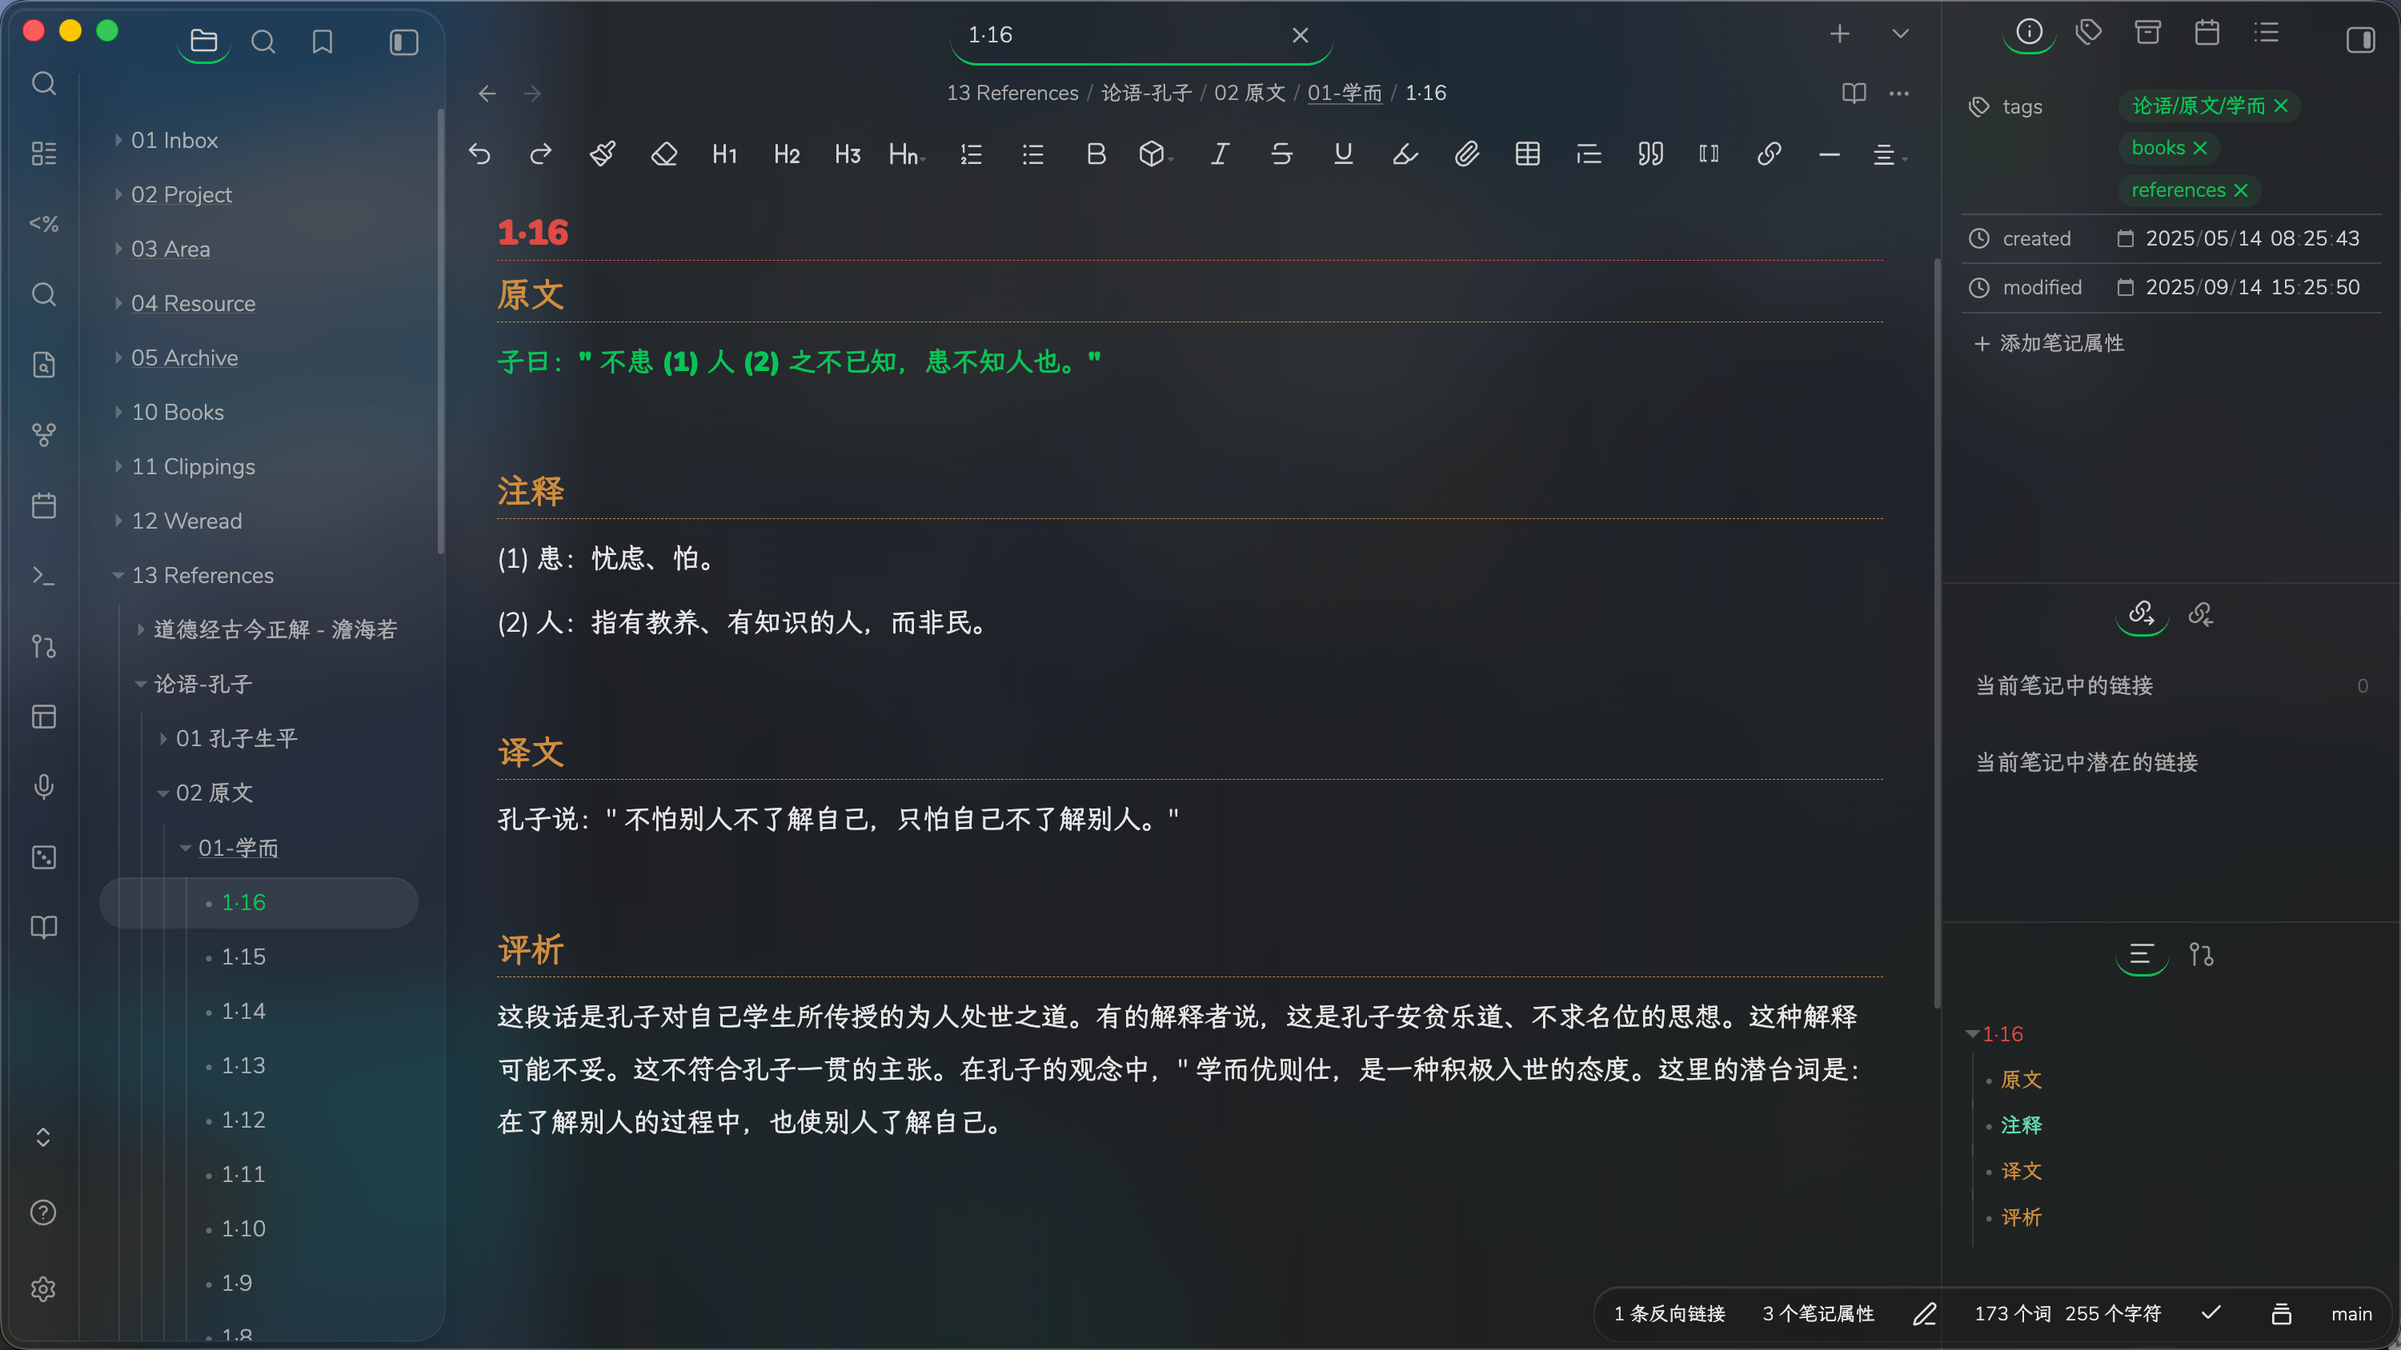
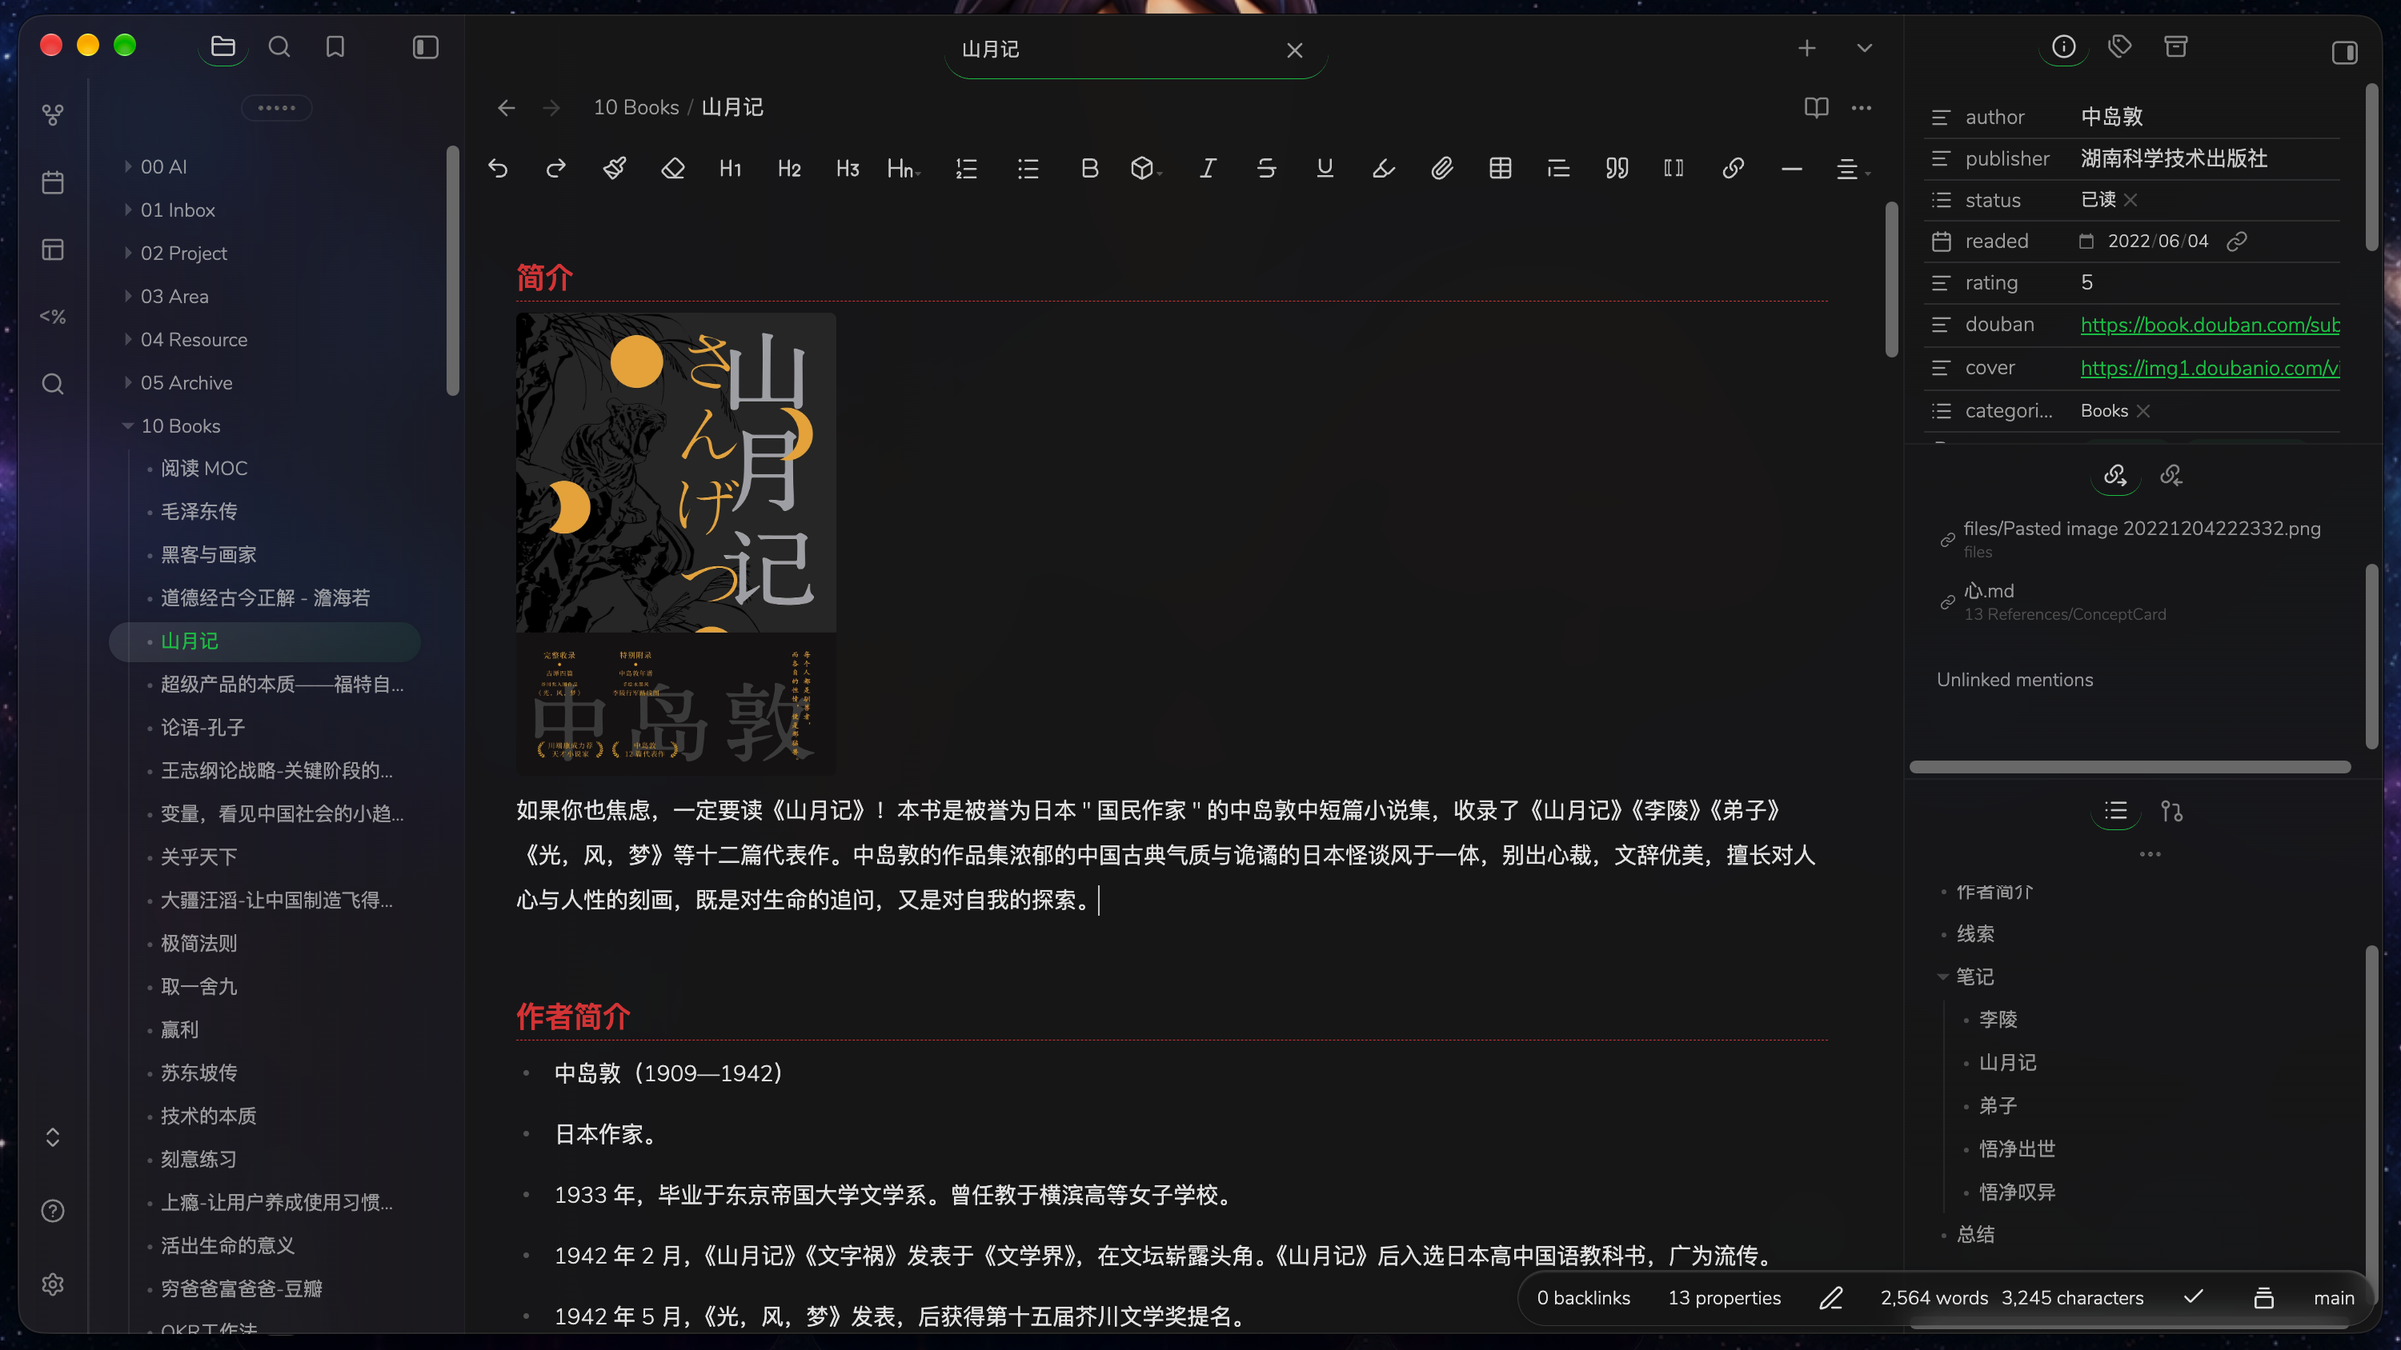
Update theme presentation and documentation

diff --git a/theme.css b/theme.css
@@ -1516,6 +1516,10 @@ body.is-mobile .tree-item-self {
 	border-left: solid 2px var(--text-accent) !important;
 }
 
+.workspace-ribbon.mod-primary:before {
+	border-bottom: none !important;
+}
+
 /*
 * --------------------------------阅读模式页面样式调整------------------------------------
 */

diff --git a/README.md b/README.md
@@ -1,153 +1,102 @@
-![](./cover.png)
+<div align="center">
 
-[中文](#Chinese) ｜ [English](#English)
+![Zen for Obsidian](./cover.png)
 
-[Screenshots](#Screenshots)
+# Zen
 
-# <a id="Chinese"> 中文 </a>
+A modern, minimalist Obsidian theme designed for focused writing and comfortable reading.
 
-Zen 是一个专注于写作而生的现代化主题。去除了影响写作和阅读的冗余元素，大量的运用了高斯模糊效果，具有现代化的简约风格。同时针对中文用户做了专门的优化。
+[English](./README.md) · [简体中文](./README.zh-CN.md)
 
-备注：
+</div>
 
--   在 Mac 平台，背景高斯模糊效果需要开启半透明选项。路径：设置 -> 外观 -> 半透明效果。
--   Windows 平台由于新版除除了开启半透明选项，故采用折衷的办法，在代码里内置图片来实现，如需定义，请到最后查看教程。
--   部分参数，已可通过 Style Settings 插件进行配置。
+## Overview
 
-# Buy me a Coffee
+Zen removes unnecessary visual clutter, uses whitespace to separate interface regions, and brings a soft translucent aesthetic to Obsidian. Typography, spacing, lists, and navigation have been refined for a consistent writing experience across reading and editing views, with dedicated optimizations for Chinese content.
 
-如果您喜欢我的主题，可以请我喝杯咖啡。
+## Features
 
-If you like my theme, you can buy me a cup of coffee.
+- Minimal interface with generous whitespace and fewer dividing lines
+- Translucent, blurred window styling on macOS
+- Custom background-image support on Windows and Linux
+- Aligned folder trees, ordered lists, unordered lists, and indentation guides
+- Colored tab indicators and heading levels
+- Carefully tuned letter spacing and line height for writing and reading
+- Consistent styling between Live Preview and Reading view
+- Responsive experience for desktop and mobile
+- Built-in options for the [Style Settings](https://github.com/mgmeyers/obsidian-style-settings) plugin
 
-[![Buy me a Coffee](https://img.shields.io/badge/Buy%20me%20a%20Coffee-%E6%8C%87%E6%95%B0-%E6%8D%98%E6%8C%87%E5%8F%8D%E5%8F%8D.svg)](https://www.paypal.com/paypalme/laughmakering)
+## Requirements
 
-<img src="./screenshots/zhifubao.jpg" width="200" height="200" alt="描述文字">
+- Obsidian 1.9.0 or later
+- The optional Style Settings plugin is recommended for visual customization
 
-## 一、安装
+## Installation
 
-安装主题的步骤如下：
+### Community Themes
 
--   打开 Obsidian 设置
--   进入“外观”设置并点击“管理”
--   在社区主题中搜索“Zen”，然后点击“使用”
+1. Open **Settings → Appearance** in Obsidian.
+2. Select **Manage** under Themes.
+3. Search for **Zen** in Community Themes.
+4. Select **Install and use**.
 
-**为了确保序号和引导线对齐，以及有更好的中文体验，请安装字体**：
-`LXGWWenKaiMono-Regular.ttf`
-![alt text](screenshots/font-image.png)
+### Recommended font
 
--   当前使用字体：https://github.com/lxgw/LxgwWenKai/releases/download/v1.510/LXGWWenKaiMono-Regular.ttf
--   其他家族字体参考： https://github.com/lxgw/LxgwWenKai
+For better alignment between list markers and indentation guides—especially in Chinese notes—install **LXGW WenKai Mono**:
 
-## 二、特性
+- [Download LXGWWenKaiMono-Regular.ttf](https://github.com/lxgw/LxgwWenKai/releases/download/v1.510/LXGWWenKaiMono-Regular.ttf)
+- [Browse the LXGW WenKai font family](https://github.com/lxgw/LxgwWenKai)
 
-1. 窗体：背景现化化的背景高斯模糊效果；
-2. 窗体：采用留白来区分块，移除大量的线条；
-3. 目录页：采用倒三角和\*来区分目录和文件，并使 guideline(缩进参考线)对齐；
-4. 标签页：采用彩色下划线指示；
-5. 编辑器页：大量的调整字间距和行间距，使编辑和阅读更舒适；
-6. 编辑器页：针对有序列表和无序列表，严格对齐 guideline(缩进参考线);
-7. 标题：不同层级采用彩色显示，并增加标题序号提示；
-8. 列表：阅读模藏和编辑模式，尽可能保持一致的体验；
-9. 移动端：体验基本保持与 PC 端尽可能一致；
-10. Windows 端：增加高斯模糊背景效果。
+![Font preview](./screenshots/font-image.png)
 
-已优化插件列表：
+## Platform notes
 
-1. Advanced Canvas
-2. Dataview
-3. Editing Toolbar
-4. Export Image plugin
-5. Floating Search
-6. Folder notes
-7. Iconic
-8. Mindmap NextGen
-9. Note Refactor
-10. Novel word count
-11. Weread
-11. Quiet Outline
+### macOS
 
-## 三、Win 如何替换背景？
+To enable the translucent background effect, turn on **Settings → Appearance → Translucent window** in Obsidian.
 
-由于 Windows 平台的限制，obsidian 官方从 1.6.7 版本，移除了背景半透明效果，所以针对 Windows 平台的实现，采用了图片的方式，不能穿透桌面壁纸。
+### Windows and Linux
 
-如果需要更换背景图，可按如下操作：
+Zen uses a background image to create a similar atmosphere because desktop wallpaper translucency is not available on these platforms. To use a custom image:
 
-1. 安装插件 Style Settings；
-2. 找到 Windows: 窗体背景图片 设置项，从网上找到一张图片，替换到里面的单引号部分
-   ![](./screenshots/stylesettings.png)
+1. Install and enable the [Style Settings](https://github.com/mgmeyers/obsidian-style-settings) plugin.
+2. Open **Settings → Style Settings → Zen → Windows/Linux**.
+3. Set **The background picture of the window** to an image URL.
 
-# <a id="English">English </a>
+![Windows background setting](./screenshots/stylesettings.png)
 
-Zen is a modern theme designed specifically for writing. It removes redundant elements that can affect writing and reading, extensively uses Gaussian blur effects, and features a modern minimalist style. It has also been specifically optimized for Chinese users.
+## Plugin compatibility
 
-Notes:
+Zen includes visual optimizations for the following community plugins:
 
--   On the Mac platform, the Gaussian blur effect for the background requires the translucent option to be enabled. Path: Settings -> Appearance -> Translucent Effect.
--   On the Windows platform, since the new version has removed the translucent option, a compromise method is used by embedding images in the code to achieve the effect. For definitions, please refer to the tutorial at the end.
+- Advanced Canvas
+- Dataview
+- Editing Toolbar
+- Export Image
+- Floating Search
+- Folder Notes
+- Iconic
+- Mindmap NextGen
+- Note Refactor
+- Novel Word Count
+- Quiet Outline
+- Weread
 
-## 一、Installation
+Compatibility may change as Obsidian and community plugins evolve.
 
-To install the theme
+## Support
 
--   Open Obsidian Settings
--   Go to Appearance and click Manage
--   Under community themes search for "Zen" and click Use
+If Zen improves your Obsidian experience, you can support its development:
 
-To ensure that the numbers and guide lines are aligned, and for a better Chinese experience, please install the font：
+- [Follow @laughmaker on GitHub](https://github.com/laughmaker)
+- [Buy me a coffee via PayPal](https://www.paypal.com/paypalme/laughmakering)
 
-`LXGWWenKaiMono-Regular.ttf`
-![alt text](screenshots/font-image.png)
+<img src="./screenshots/zhifubao.jpg" width="200" alt="Alipay QR code">
 
--   Used Font：https://github.com/lxgw/LxgwWenKai/releases/download/v1.510/LXGWWenKaiMono-Regular.ttf
--   Other Font： https://github.com/lxgw/LxgwWenKai
+## Disclaimer
 
-## 二、Features
+Zen is primarily designed around the author's personal Obsidian workflow on macOS and has not been tested across every operating system or setup. Because it customizes significant parts of the Obsidian interface, future Obsidian updates or custom CSS snippets may cause compatibility issues.
 
-1. Windows: The background features a modernized Gaussian blur effect.
-2. Windows: Utilizes whitespace to distinguish blocks, removing a large number of lines.
-3. Table of Contents Page: Employs inverted triangles and asterisks (\*) to differentiate between directories and files, and aligns the guideline (indentation reference line).
-4. Tab Page: Uses colored underlines for indication.
-5. Editor Page: Extensive adjustments to letter spacing and line spacing are made to enhance the comfort of editing and reading.
-6. Editor Page: For ordered and unordered lists, the guideline (indentation reference line) is strictly aligned.
-7. Headings: Different levels are displayed in color, with added heading number prompts.
-8. Lists: The reading mode and editing mode aim to maintain a consistent experience as much as possible.
-9. Mobile: The experience is kept as consistent as possible with the PC version.
-10. Windows: Adds a Gaussian blur background effect.
+## License
 
-## 三、How to replace backgroundImage in Windows？
-
-Due to the limitations of the Windows platform, the official Obsidian removed the semi-transparent background effect starting from version 1.6.7. Therefore, for the implementation on the Windows platform, an image-based approach is used, which does not allow the background to be transparent to the desktop wallpaper.
-
-If you need to change the background image, follow these steps:
-
-1. Install plugin Style Settings；
-2. Find the "Window: Form background picture" setting item. Find a picture from the Internet and replace the single quotation mark part.
-   ![](./screenshots/stylesettings.png)
-
-# <a id="Screenshots"> Screenshots </a>
-
-## Mac
-
-![](./screenshots/cover-dark-1.png)
-![](./screenshots/cover-dark-2.png)
-![](./screenshots/cover-dark-3.png)
-![](./screenshots/cover-light-1.png)
-
-
-## Mobile
-
-![](./screenshots/mobile-1.png)
-![](./screenshots/mobile-2.png)
-
-# **Support development:** [follow me](https://github.com/laughtmaker)
-
-# Disclaimer
-
-This theme is provided as is, and is designed for my personal use of Obsidian on macOS. As such it is not thoroughly tested across all operating systems and use cases.
-
-This theme modifies significant parts of the Obsidian interface, so it may break with future updates. It may also be incompatible with other bits of custom CSS you have.
-
-# License
-
-Zen for Obsidian apps is licensed under the MIT License which allows you to modify and redistribute the code, however you must preserve the copyright and license notice in your CSS file. This includes any code you may extract as standalone snippets.
+Zen is distributed under the [MIT License](./LICENSE.txt). If you modify, redistribute, or extract parts of the theme as standalone snippets, retain the applicable copyright and license notices.

diff --git a/README.zh-CN.md b/README.zh-CN.md
@@ -1,0 +1,102 @@
+<div align="center">
+
+![Zen for Obsidian](./cover.png)
+
+# Zen
+
+一款为专注写作与舒适阅读而设计的现代简约 Obsidian 主题。
+
+[English](./README.md) · [简体中文](./README.zh-CN.md)
+
+</div>
+
+## 简介
+
+Zen 去除不必要的视觉干扰，通过留白区分界面区域，并为 Obsidian 带来柔和的半透明视觉效果。主题细致调整了字体、间距、列表与导航，让阅读视图和编辑视图保持一致，同时针对中文内容进行了专门优化。
+
+## 主要特性
+
+- 简洁的界面、充足的留白与更少的分隔线
+- macOS 半透明与背景模糊效果
+- Windows 和 Linux 自定义背景图片
+- 文件树、有序列表、无序列表与缩进参考线对齐
+- 彩色标签页指示线与标题层级
+- 为写作和阅读优化的字间距与行间距
+- 实时预览与阅读视图尽可能保持一致
+- 适配桌面端与移动端
+- 内置 [Style Settings](https://github.com/mgmeyers/obsidian-style-settings) 插件配置项
+
+## 使用要求
+
+- Obsidian 1.9.0 或更高版本
+- 建议安装 Style Settings 插件，以便调整主题外观
+
+## 安装
+
+### 社区主题
+
+1. 在 Obsidian 中打开 **设置 → 外观**。
+2. 在主题区域点击 **管理**。
+3. 在社区主题中搜索 **Zen**。
+4. 点击 **安装并使用**。
+
+### 推荐字体
+
+为了让列表序号、项目符号与缩进参考线更好地对齐，并改善中文阅读体验，建议安装 **霞鹜文楷等宽**：
+
+- [下载 LXGWWenKaiMono-Regular.ttf](https://github.com/lxgw/LxgwWenKai/releases/download/v1.510/LXGWWenKaiMono-Regular.ttf)
+- [查看霞鹜文楷字体家族](https://github.com/lxgw/LxgwWenKai)
+
+![字体效果预览](./screenshots/font-image.png)
+
+## 平台说明
+
+### macOS
+
+如需启用半透明背景效果，请在 Obsidian 中打开 **设置 → 外观 → 半透明窗口**。
+
+### Windows 与 Linux
+
+由于这些平台无法使用桌面壁纸半透明效果，Zen 通过背景图片实现相近的视觉氛围。如需更换背景图片：
+
+1. 安装并启用 [Style Settings](https://github.com/mgmeyers/obsidian-style-settings) 插件。
+2. 打开 **设置 → Style Settings → Zen → Windows/Linux**。
+3. 在 **窗体背景图片** 中填写图片 URL。
+
+![Windows 背景设置](./screenshots/stylesettings.png)
+
+## 插件适配
+
+Zen 已针对以下社区插件进行视觉优化：
+
+- Advanced Canvas
+- Dataview
+- Editing Toolbar
+- Export Image
+- Floating Search
+- Folder Notes
+- Iconic
+- Mindmap NextGen
+- Note Refactor
+- Novel Word Count
+- Quiet Outline
+- Weread
+
+Obsidian 与社区插件持续更新，实际兼容性可能随版本变化。
+
+## 支持项目
+
+如果 Zen 改善了你的 Obsidian 使用体验，可以通过以下方式支持项目：
+
+- [在 GitHub 关注 @laughmaker](https://github.com/laughmaker)
+- [通过 PayPal 请我喝杯咖啡](https://www.paypal.com/paypalme/laughmakering)
+
+<img src="./screenshots/zhifubao.jpg" width="200" alt="支付宝收款码">
+
+## 免责声明
+
+Zen 主要围绕作者在 macOS 上的个人 Obsidian 工作流设计，尚未覆盖测试所有操作系统和使用场景。由于主题对 Obsidian 界面进行了较多定制，未来的 Obsidian 更新或其他自定义 CSS 可能导致兼容性问题。
+
+## 许可证
+
+Zen 使用 [MIT License](./LICENSE.txt) 发布。修改、再分发主题，或将其中代码提取为独立片段时，请保留相应的版权与许可证声明。
